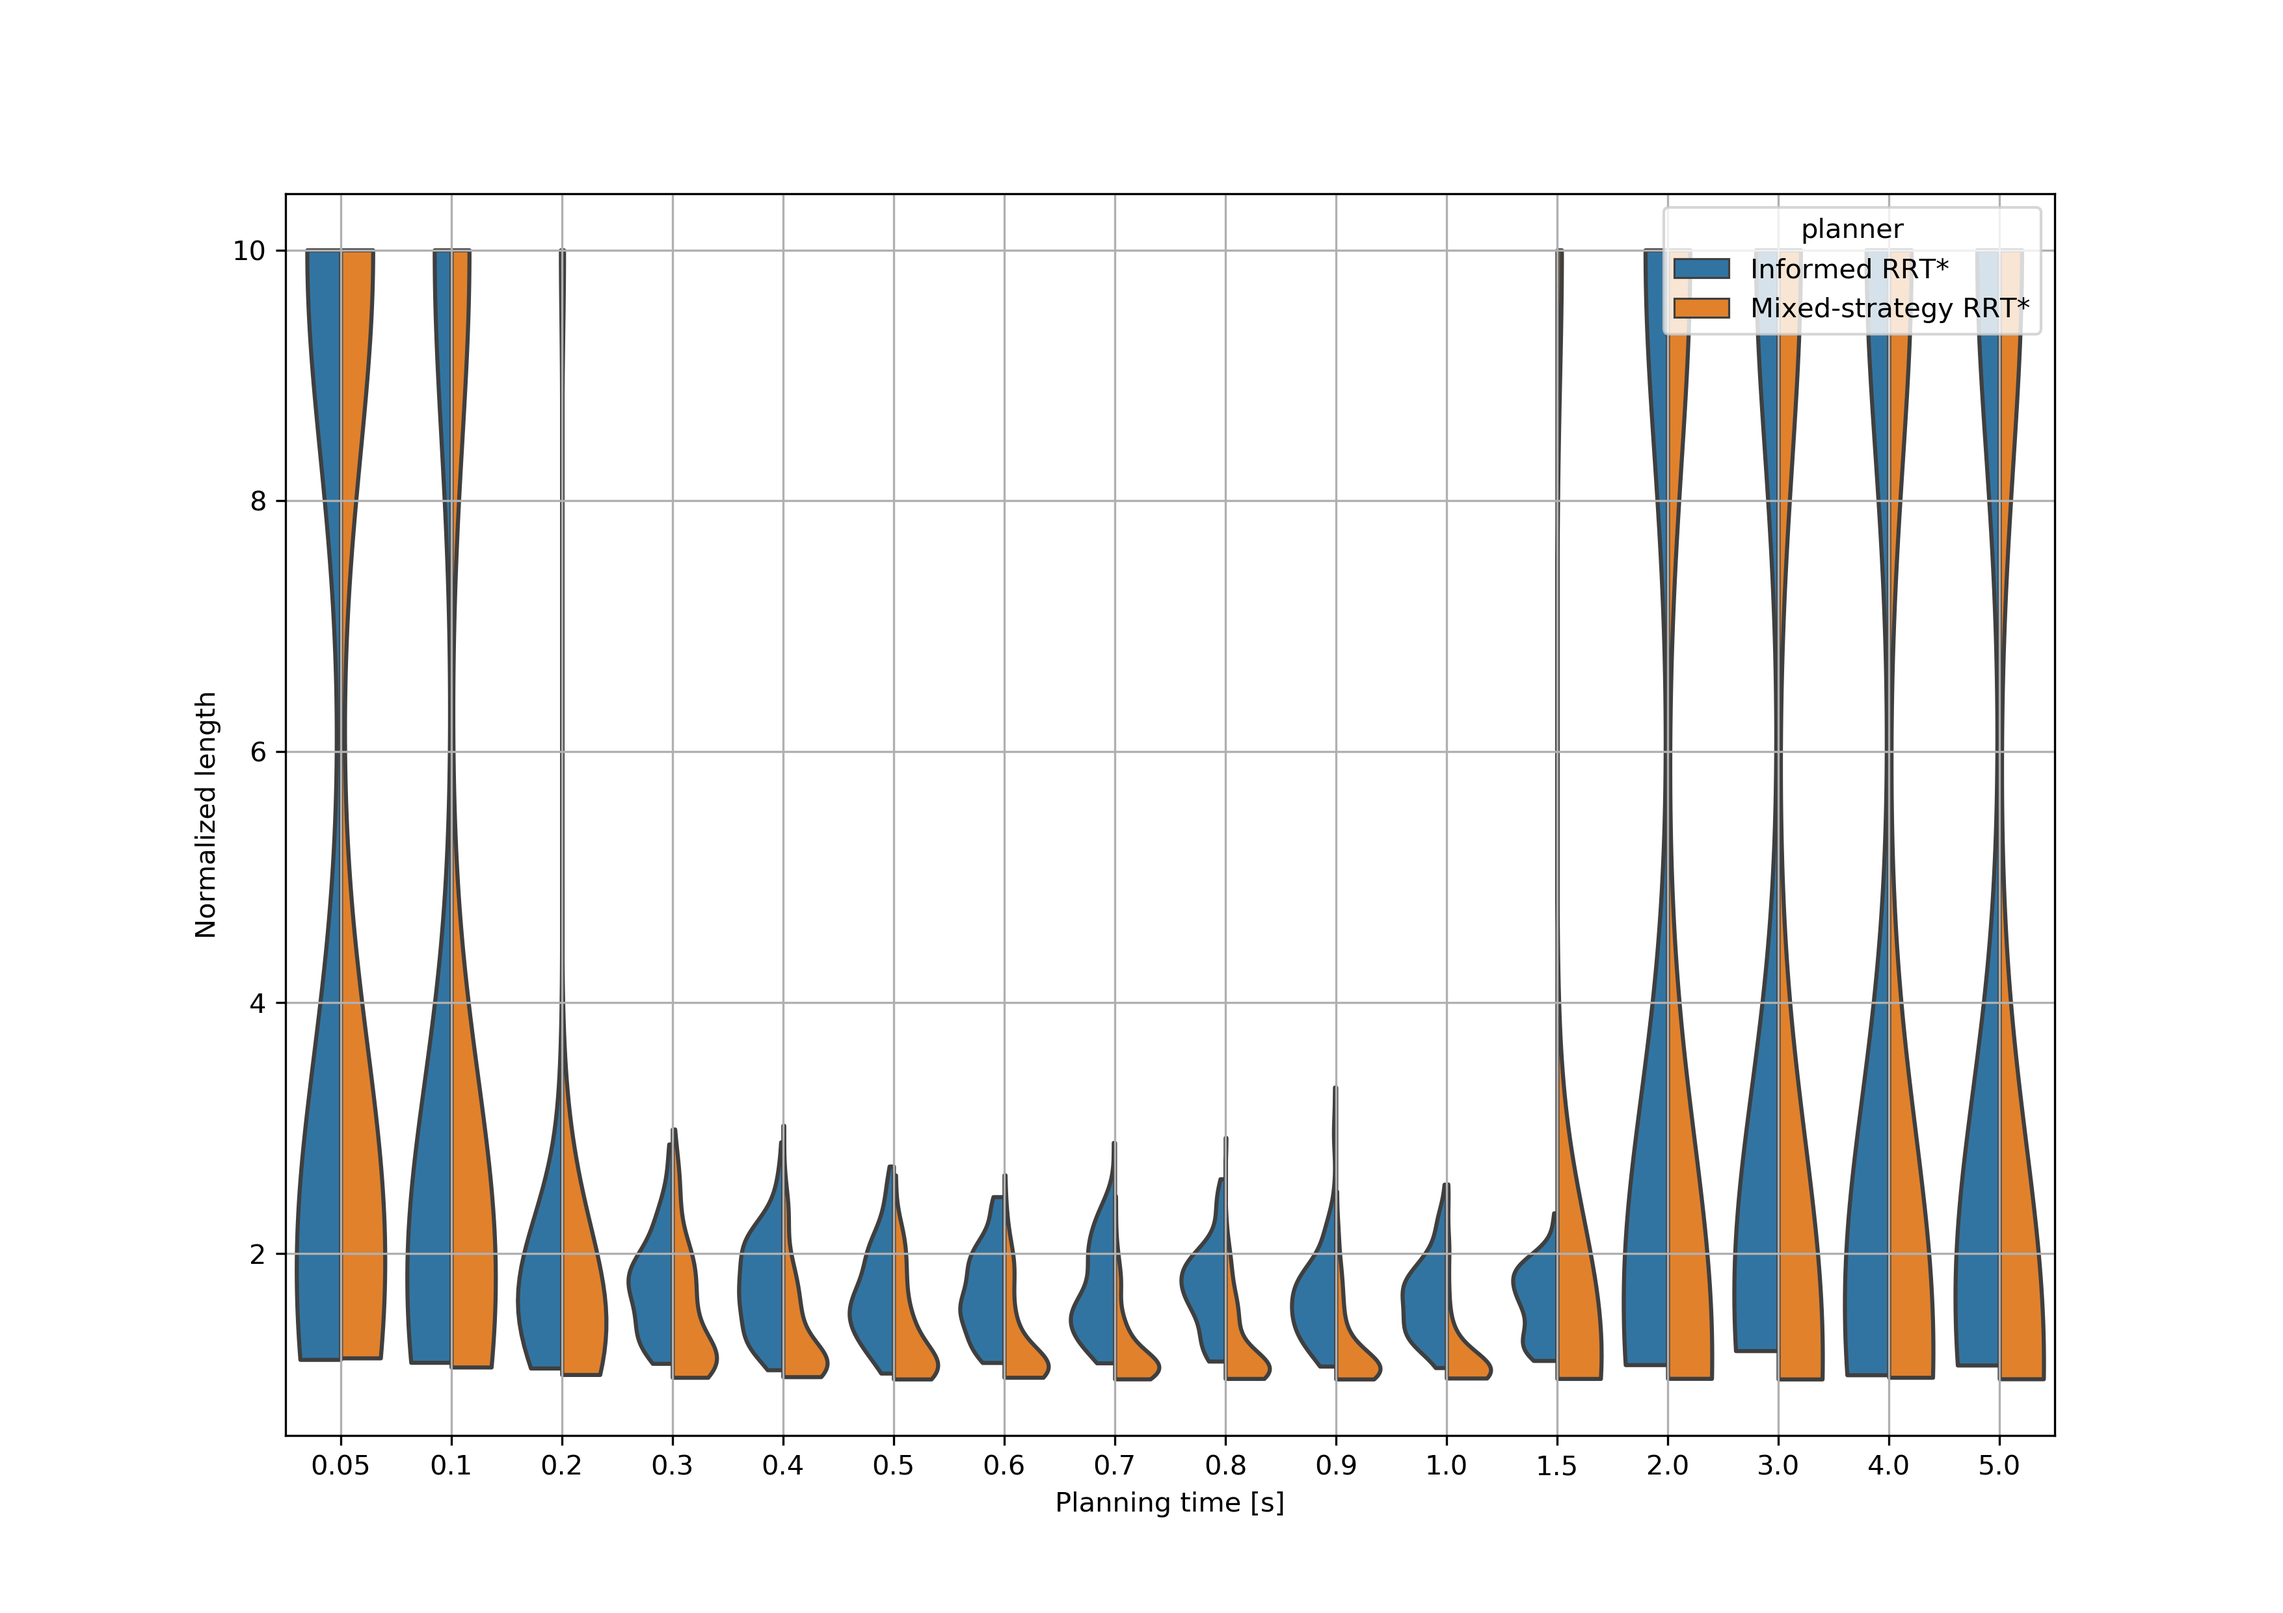
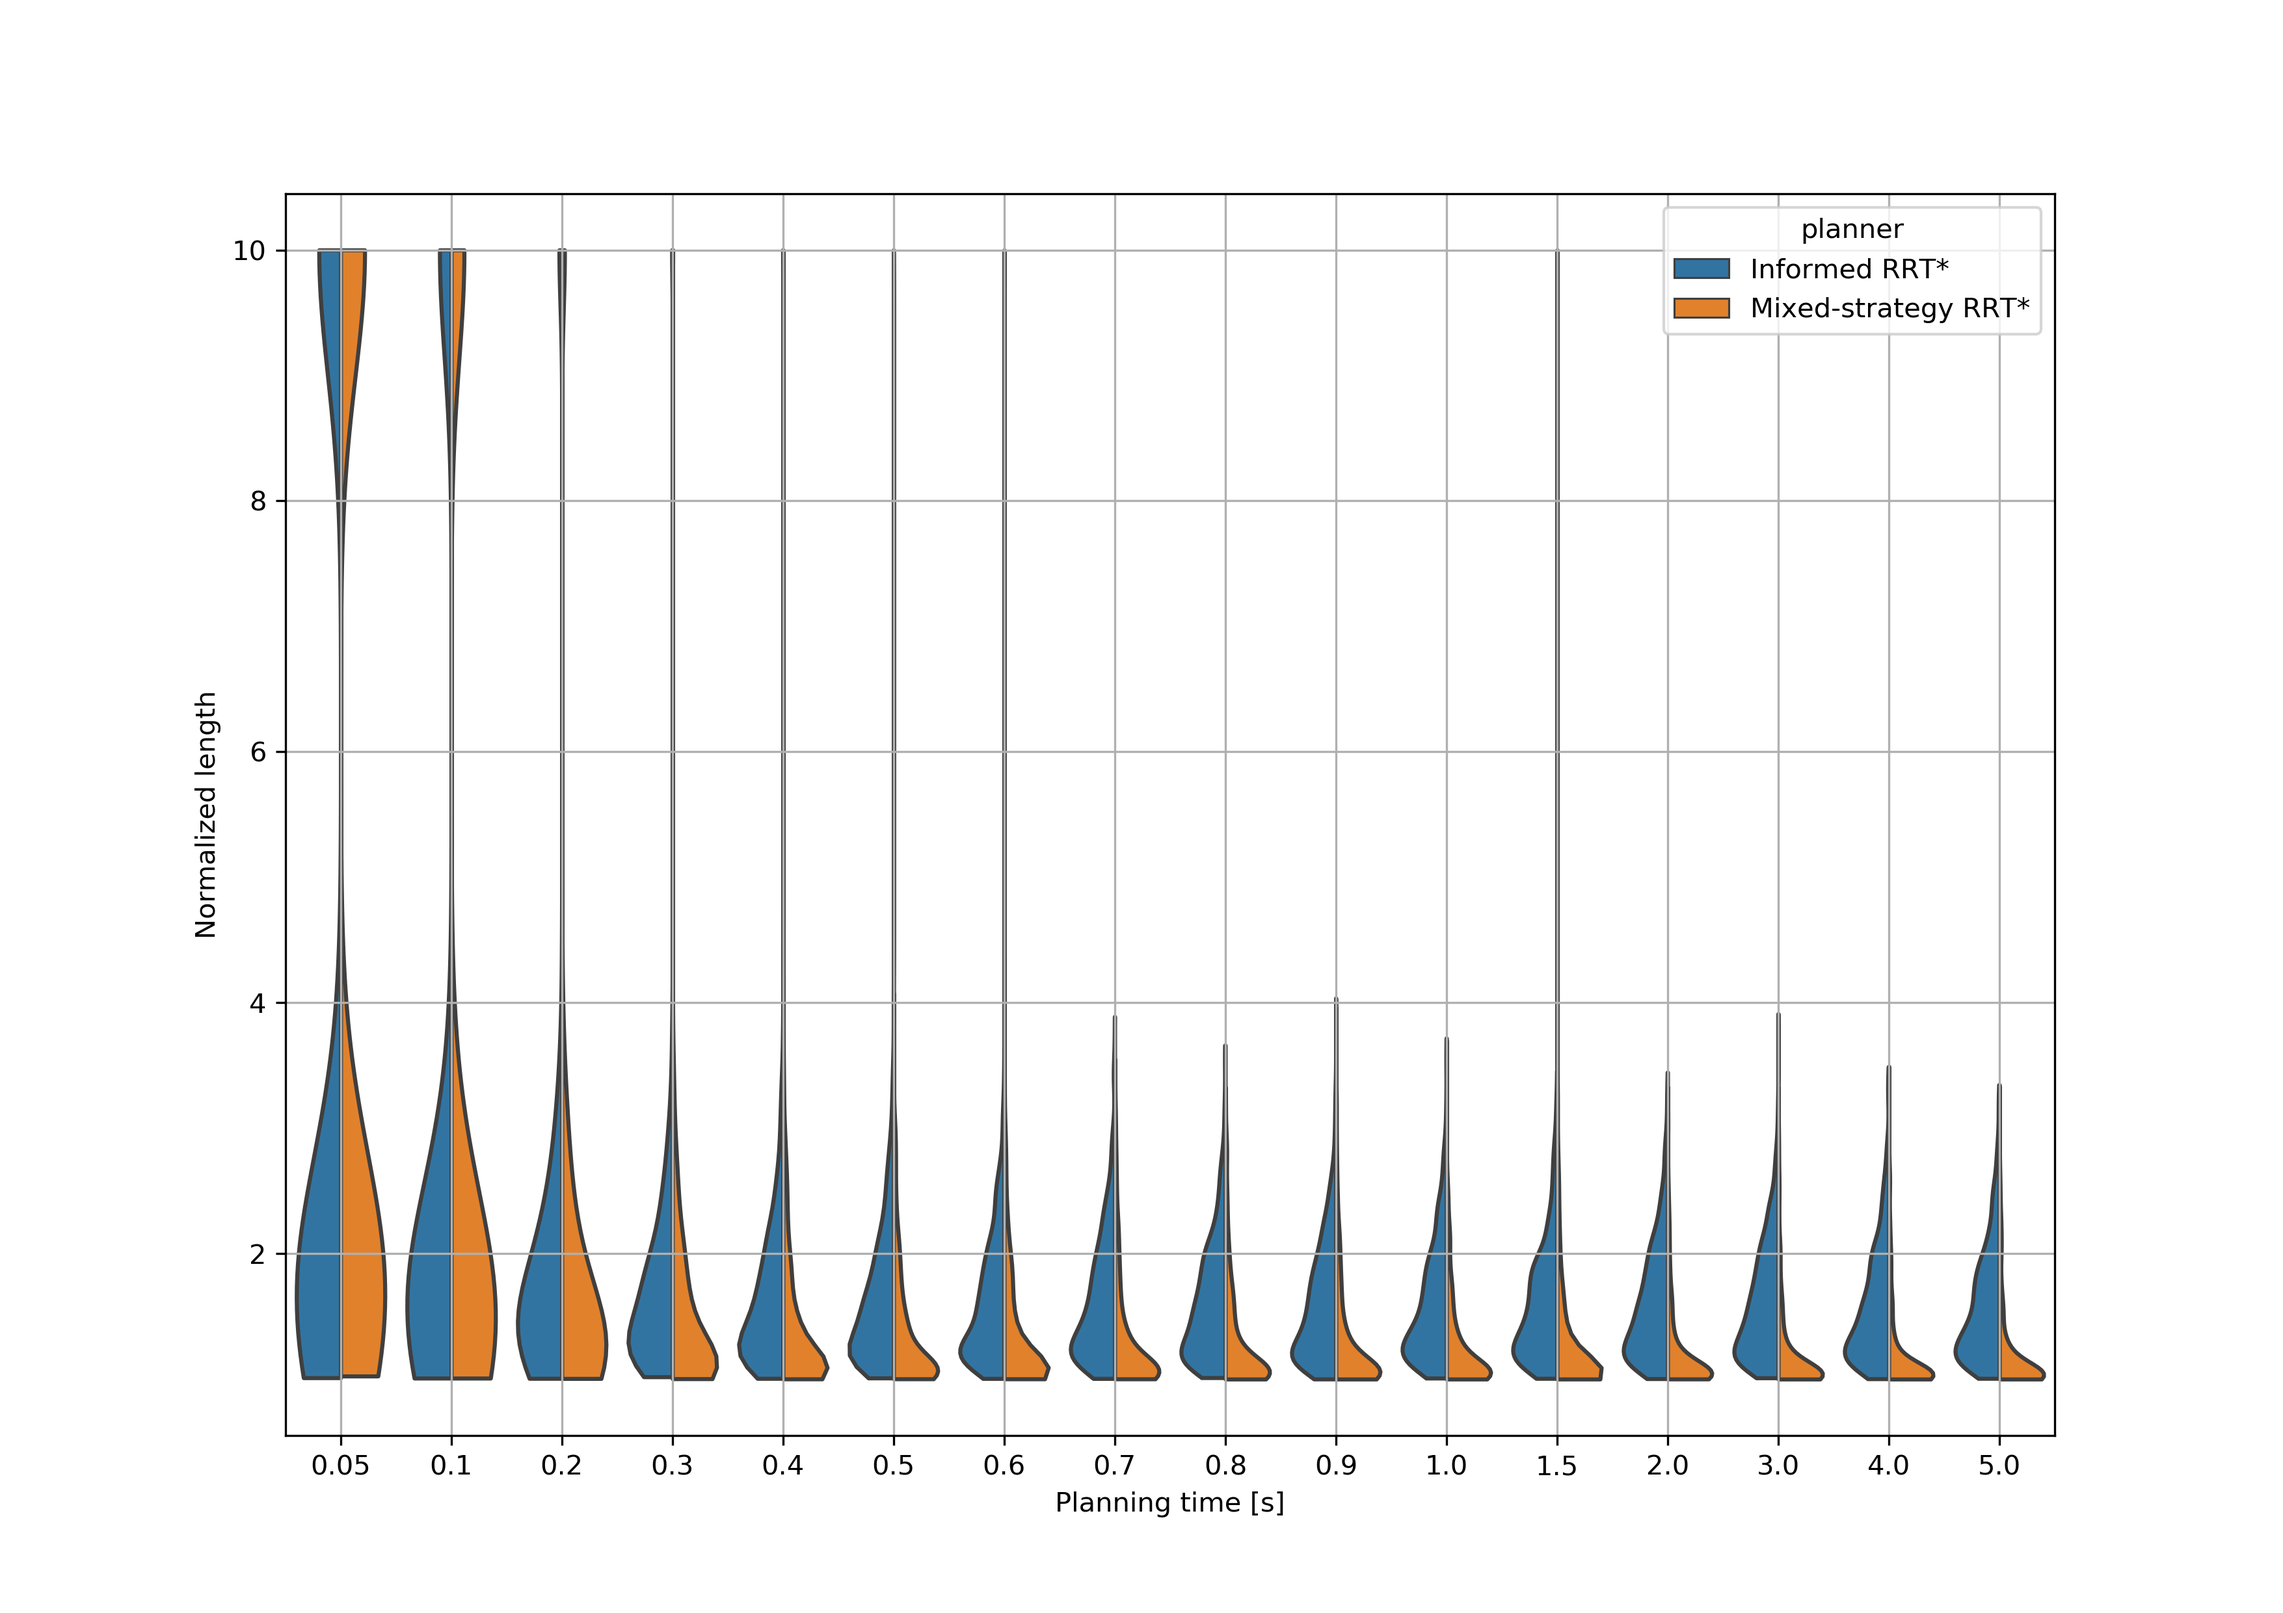
violin plots

Changed region(s): [[0.1242, 0.1552, 0.9006, 0.869], [0.6211, 0.7138, 0.6521, 0.7449], [0.4348, 0.7138, 0.4658, 0.7449]]

diff --git a/scripts/view_results.py b/scripts/view_results.py
@@ -14,7 +14,7 @@ import seaborn
 import pandas as pd
 
 load_from_parameter_server=False
-dof=6
+dof=12
 test_name='benchmark_result_'+str(dof)+'.yaml'
 
 if load_from_parameter_server:

diff --git a/scripts/DOF9.md b/scripts/DOF9.md
@@ -1,27 +1,12 @@
 # CUBES testbed, DOF = 9
+
 30 repetitions
-10 queries
+10-30  queries (dipende)
 
-NOTA per confrontare i metodi, calcolare in quante query uno è meglio dell'altro al variare del tempo di calcolo.
-magari si può anche calcolare il valore atteso di mediana(costo_tempo_t)/miglior_soluzione
 
-## Query 00
-![query 00](cubes_dof_9query_0.png)
-## Query 01
-![query 01](cubes_dof_9query_1.png)
-## Query 02
-![query 02](cubes_dof_9query_2.png)
-## Query 03
-![query 03](cubes_dof_9query_3.png)
-## Query 04
-![query 04](cubes_dof_9query_4.png)
-## Query 05
-![query 05](cubes_dof_9query_5.png)
-## Query 06
-![query 06](cubes_dof_9query_6.png)
-## Query 07
-![query 07](cubes_dof_9query_7.png)
-## Query 08
-![query 08](cubes_dof_9query_8.png)
-## Query 09
-![query 09](cubes_dof_9query_9.png)
+## 3 DOF
+![query 00](violin_dof6.png)
+## 6 DOF
+![query 01](violin_dof9.png)
+## 9 DOF
+![query 02](violin_dof12.png)
